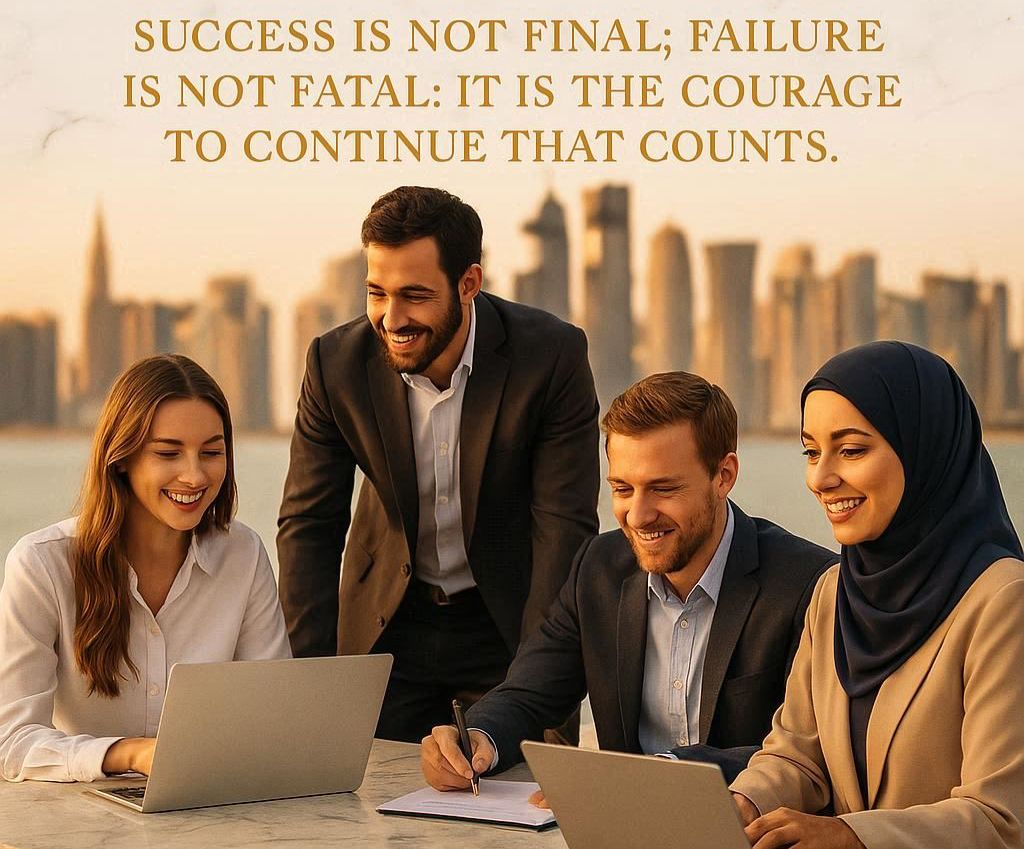
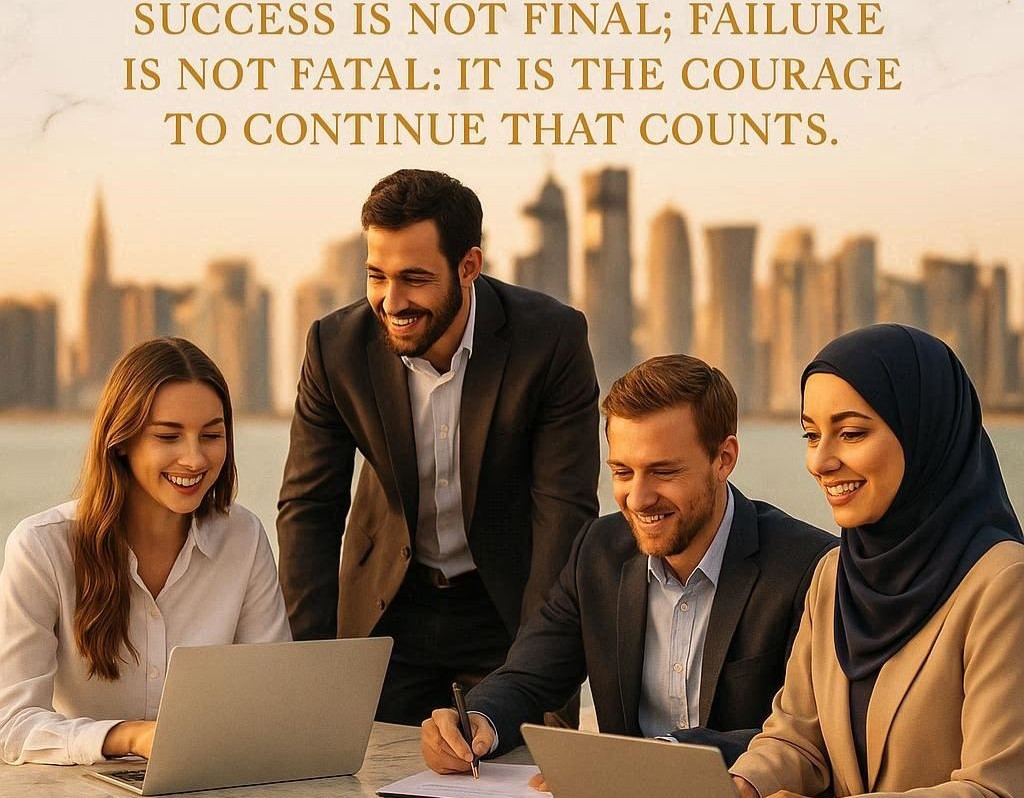
Change Images in About Page

diff --git a/app/components/about/TimeLine.jsx b/app/components/about/TimeLine.jsx
@@ -95,7 +95,7 @@ export const Timeline = () => {
                                             src={milestone.image}
                                             alt={milestone.title}
                                             fill
-                                            className=" transition-transform duration-700 group-hover:scale-105"
+                                            className=" object-center transition-transform duration-700 group-hover:scale-105"
                                             quality={80}
                                         />
                                         <div className="absolute inset-0 bg-gradient-to-t from-[#0D1B2A]/90 via-[#0D1B2A]/30 to-transparent p-8 flex items-end transition-all duration-500 group-hover:from-[#0D1B2A]/95">

diff --git a/app/components/about/Team.jsx b/app/components/about/Team.jsx
@@ -65,7 +65,7 @@ export const Team = () => {
                                 <img
                                     src={member.image}
                                     alt={member.name}
-                                    className="w-full h-full object-cover transition-transform duration-500 group-hover:scale-105"
+                                    className="w-full h-full transition-transform duration-500 group-hover:scale-105"
                                     loading="lazy"
                                 />
                                 <div className="absolute inset-0 bg-gradient-to-t from-[#0D1B2A]/90 via-[#0D1B2A]/30 to-transparent flex items-end p-6">
